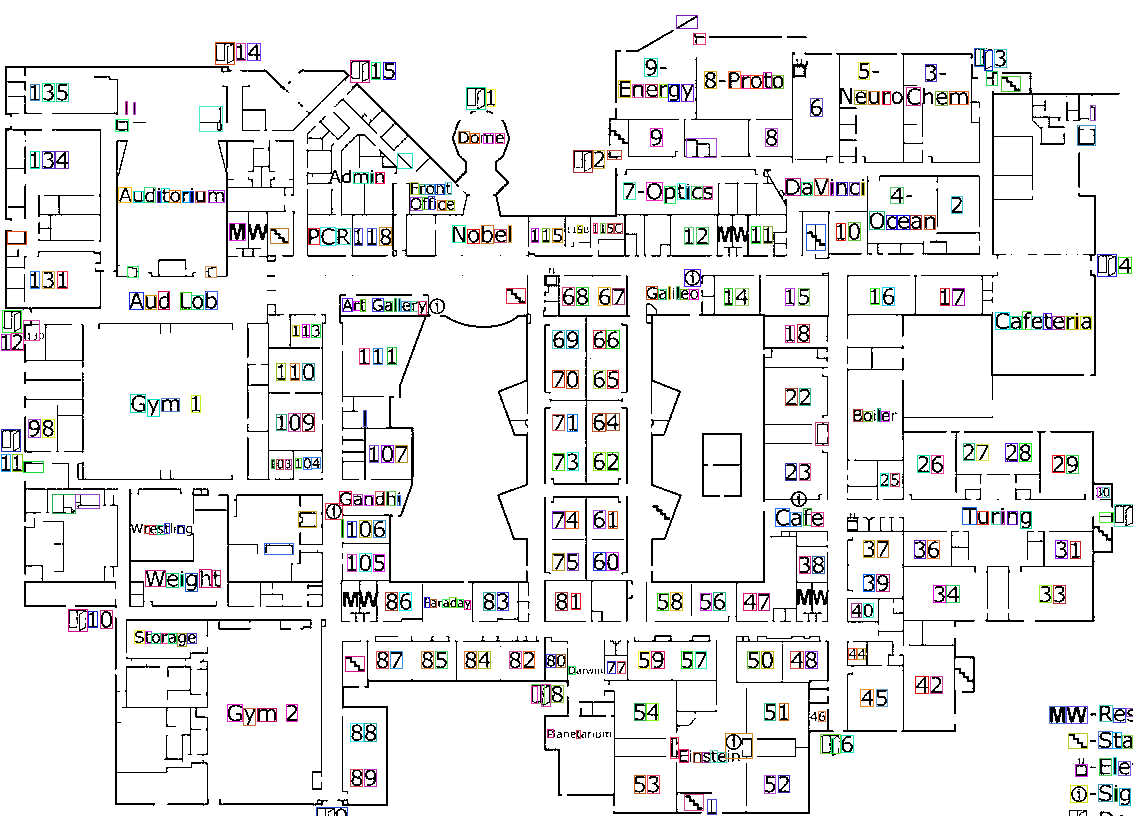
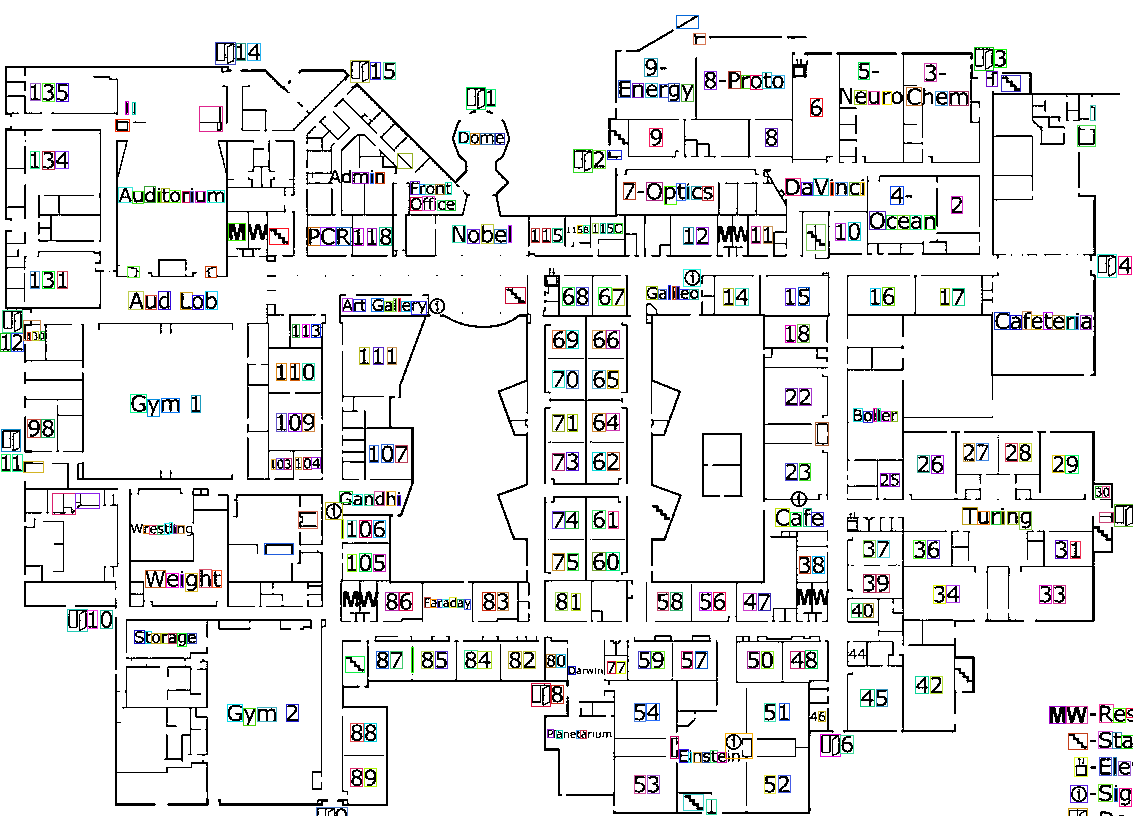
Update recognize characters

diff --git a/recognize_characters.py b/recognize_characters.py
@@ -1,12 +1,22 @@
 import colorsys 
+import pickle
 import pytesseract
 import random
 import sys
+import time
 import tkinter as tk
-from PIL import Image, ImageTk
+from PIL import Image, ImageTk, ImageDraw, ImageFont
+
+USING_TESSERACT = True
 
 sys.setrecursionlimit(10000) # We don't talk about this line
-pytesseract.pytesseract.tesseract_cmd = r"C:\Program Files\Tesseract-OCR\tesseract"
+
+if USING_TESSERACT:
+    pytesseract.pytesseract.tesseract_cmd = r"C:\Program Files\Tesseract-OCR\tesseract"
+    box_stats = {}
+else:
+    with open('boxes.pickle', 'rb') as handle:
+        box_stats = pickle.load(handle)
 
 root = tk.Tk()
 
@@ -38,12 +48,12 @@ def flood(x, y, found, min_x, max_x, min_y, max_y):
     return found, min_x, max_x, min_y, max_y
 
 
-def draw_line(x1, x2, y1, y2, r, g, b):
+def draw_line(p, x1, x2, y1, y2, r, g, b):
     
     for x in range(x1, x2 + 1):
         for y in range(y1, y2 + 1):
             try: # Crude way of making sure pixel is not outside of image
-                pixels[x, y] = (r, g, b)
+                p[x, y] = (r, g, b)
             except:
                 pass
 
@@ -59,15 +69,17 @@ width, height = image.width, image.height
 for x in range(width):
     for y in range(height):
         r, g, b = pixels[x, y]
-        if 0.2126*r + 0.7152*g + 0.0722*b < 255/2: 
+        if 0.2126*r + 0.7152*g + 0.0722*b < 150:
             pixels[x, y] = (0, 0, 0)
         else:
             pixels[x, y] = (255, 255, 255)
 
+image.save("black_and_white.png")
+
 # Drawing boxes around potential candidates
 
 loaded_pixels = set()
-rectangles = set()
+boxes = set()
 for x in range(width):
     # print(width - x, "x left")
     for y in range(height):
@@ -81,20 +93,20 @@ for x in range(width):
         loaded_pixels.update(found)
 
         if 10 < len(found) and len(found) < 500 and x_len < 30 and y_len > 5 and y_len < 30: # Is appropriate size for character
-            print(f"Drawing box, {x_len} by {y_len} ==> {len(found)}")
+            # print(f"Drawing box, {x_len} by {y_len} ==> {len(found)}")
             min_x -= 1
             max_x += 1
             min_y -= 1 
             max_y += 1
-            rectangles.add((min_x, max_x, min_y, max_y))
+            boxes.add((min_x, max_x, min_y, max_y))
             h,s,l = random.random(), 0.5 + random.random()/2.0, 0.4 + random.random()/5.0
             r,g,b = [int(256*i) for i in colorsys.hls_to_rgb(h,l,s)]            
-            draw_line(min_x, max_x, min_y, min_y, r, g, b)
-            draw_line(max_x, max_x, min_y, max_y, r, g, b)
-            draw_line(min_x, max_x, max_y, max_y, r, g, b)
-            draw_line(min_x, min_x, min_y, max_y, r, g, b)
+            draw_line(pixels, min_x, max_x, min_y, min_y, r, g, b)
+            draw_line(pixels, max_x, max_x, min_y, max_y, r, g, b)
+            draw_line(pixels, min_x, max_x, max_y, max_y, r, g, b)
+            draw_line(pixels, min_x, min_x, min_y, max_y, r, g, b)
        
-image.show()
+# image.show()
 image.save("custom_boxes.png")
 
 # Save & Replace Characters
@@ -107,19 +119,31 @@ def save_and_replace_char(x1, x2, y1, y2):
         for y in range(y1 + 1, y2):
             pixels2[x - x1 + padding, y - y1 + padding] = pixels[x, y]
     image2 = image2.convert("L")
-    predict = pytesseract.image_to_string(
-     image2, config=("-c tessedit"
-                  "_char_whitelist=abcdefghijklmnopqrstuvwxyzABCDEFGHIJKLMNOPQRSTUVWXYZ0123456789"
-                  " --psm 10"
-                  " -l osd"
-                  " "))
-    tk_image = ImageTk.PhotoImage(image2.resize((250, 250)))
-    image_label.configure(image = tk_image)
-    caption_label.configure(text=f"Predicted as: {predict}")
-    image_label.pack()
-    caption_label.pack()
-    root.update()
-    return predict
+    if USING_TESSERACT:
+        predict = pytesseract.image_to_data(
+            image2, config=("-c tessedit"
+                            "_char_whitelist=abcdefghijklmnopqrstuvwxyzABCDEFGHIJKLMNOPQRSTUVWXYZ0123456789"
+                            " --psm 10"
+                            " -l osd"
+                            " "), output_type="data.frame")
+        predict = predict[predict.conf != -1]
+        try:
+            detected_char = str(predict["text"].iloc[0])[0]
+            confidence = predict["conf"].iloc[0]   
+        except:
+            detected_char = ""
+            confidence = -1 
+    else:
+        detected_char = box_stats[(x1, x2, y1, y2)][0]
+        confidence = box_stats[(x1, x2, y1, y2)][1]
+    # tk_image = ImageTk.PhotoImage(image2.resize((250, 250)))
+    # image_label.configure(image = tk_image)
+    # caption_label.configure(text=f"{detected_char}, {confidence}% confidence")
+    # image_label.pack()
+    # caption_label.pack()
+    # root.update()
+
+    return detected_char, confidence
 
 
 image_label = tk.Label(root)
@@ -129,38 +153,78 @@ image_label.pack()
 caption_label.pack()
 root.update()
 
-used_rectangles = []
-rectangles = sorted(list(rectangles), key = lambda r: (r[0], r[2], r[1], r[3]))
+def generate_names(cur_box, used_boxes, detected_name):
+    used_boxes.append(cur_box)
+    ax1, ax2, ay1, ay2 = cur_box
+    detected_char, confidence = save_and_replace_char(ax1, ax2, ay1, ay2)
+    global box_stats
+    box_stats[cur_box] = (detected_char, confidence)
+    if confidence > 69:
+        detected_name.append((cur_box, detected_char))
 
-for rectangle in rectangles:
-    used_rectangles.append(rectangle)
-    if len(used_rectangles) < 6:
+        for box in boxes:
+            if box in used_boxes:
+                continue
+                
+            bx1, bx2, by1, by2 = box
+
+            if abs(ay2 - by2) <= y_threshold and abs(ax2 - bx1) <= dist_between_letters: # Part of same word
+                used_boxes, detected_name = generate_names(box, used_boxes, detected_name)
+                break
+    
+    return used_boxes, detected_name
+
+used_boxes = []
+boxes = sorted(list(boxes), key = lambda b: (b[0], b[3]))
+dist_between_letters = 5
+y_threshold = 4
+
+for box in boxes:    
+    if box in used_boxes:
         continue
-    ax1, ax2, ay1, ay2 = rectangle
 
-    overlap = False
+    used_boxes, detected_name = generate_names(box, used_boxes, [])
+    if not detected_name:
+        continue
 
-    for rectangle2 in rectangles:
-        if rectangle2 in used_rectangles:
+    label = "".join([i[1] for i in detected_name])
+
+    # Change l's to 1's in room names
+    change = True
+    is_start = True
+    for i in range(len(label)):
+        if label[i] == "l":
             continue
-        bx1, bx2, by1, by2 = rectangle2
+        elif label[i].isnumeric() and is_start:
+            is_start = False
+        elif not is_start and not label[i].isnumeric():
+            change = False
+    if change:
+        label = "".join([i if i != "l" else "1" for i in label])
 
-        if ax1 <= bx2 and ax2 >= bx1 and ay1 >= by2 and ay2 <= by1: # Rectangles overlap
-            overlap = True
-            area_a = (ax2 - ax1) * (ay2 - ay1)
-            area_b = (bx2 - bx1) * (by2 - by1)
+    print("Found room:", label)
+    
+    # image3 = Image.open(file_name)
+    # pixels3 = image3.load()
+    # for i in detected_name:
+    #     x1, x2, y1, y2 = i[0]
+    #     font = ImageFont.truetype("arial", 45)
+        
+    #     draw_line(pixels3, x1, x2, y1, y1, 255, 0, 0)
+    #     draw_line(pixels3, x2, x2, y1, y2, 255, 0, 0)
+    #     draw_line(pixels3, x1, x2, y2, y2, 255, 0, 0)
+    #     draw_line(pixels3, x1, x1, y1, y2, 255, 0, 0)
+    # ImageDraw.Draw(image3).text((0, 0), f"{label}", (255, 0, 0), font = font)
+    # image3.show()
+    # tk_image = ImageTk.PhotoImage(image3.resize((1000, 600)))
+    # image_label.configure(image = tk_image)
+    # image_label.pack()
+    # root.update()
+    # time.sleep(3)
+    
 
-            if area_a < area_b:
-                save_and_replace_char(ax1, ax2, ay1, ay2)
-                save_and_replace_char(bx1, bx2, by1, by2)
-            else:
-                save_and_replace_char(bx1, bx2, by1, by2)
-                save_and_replace_char(ax1, ax2, ay1, ay2)
-
-            break
-
-    if not overlap:
-        save_and_replace_char(ax1, ax2, ay1, ay2)
+with open('boxes.pickle', 'wb') as handle:
+    pickle.dump(box_stats, handle, protocol=pickle.HIGHEST_PROTOCOL)
 
 """
 BEFORE identifying boxes for characters, go through key
